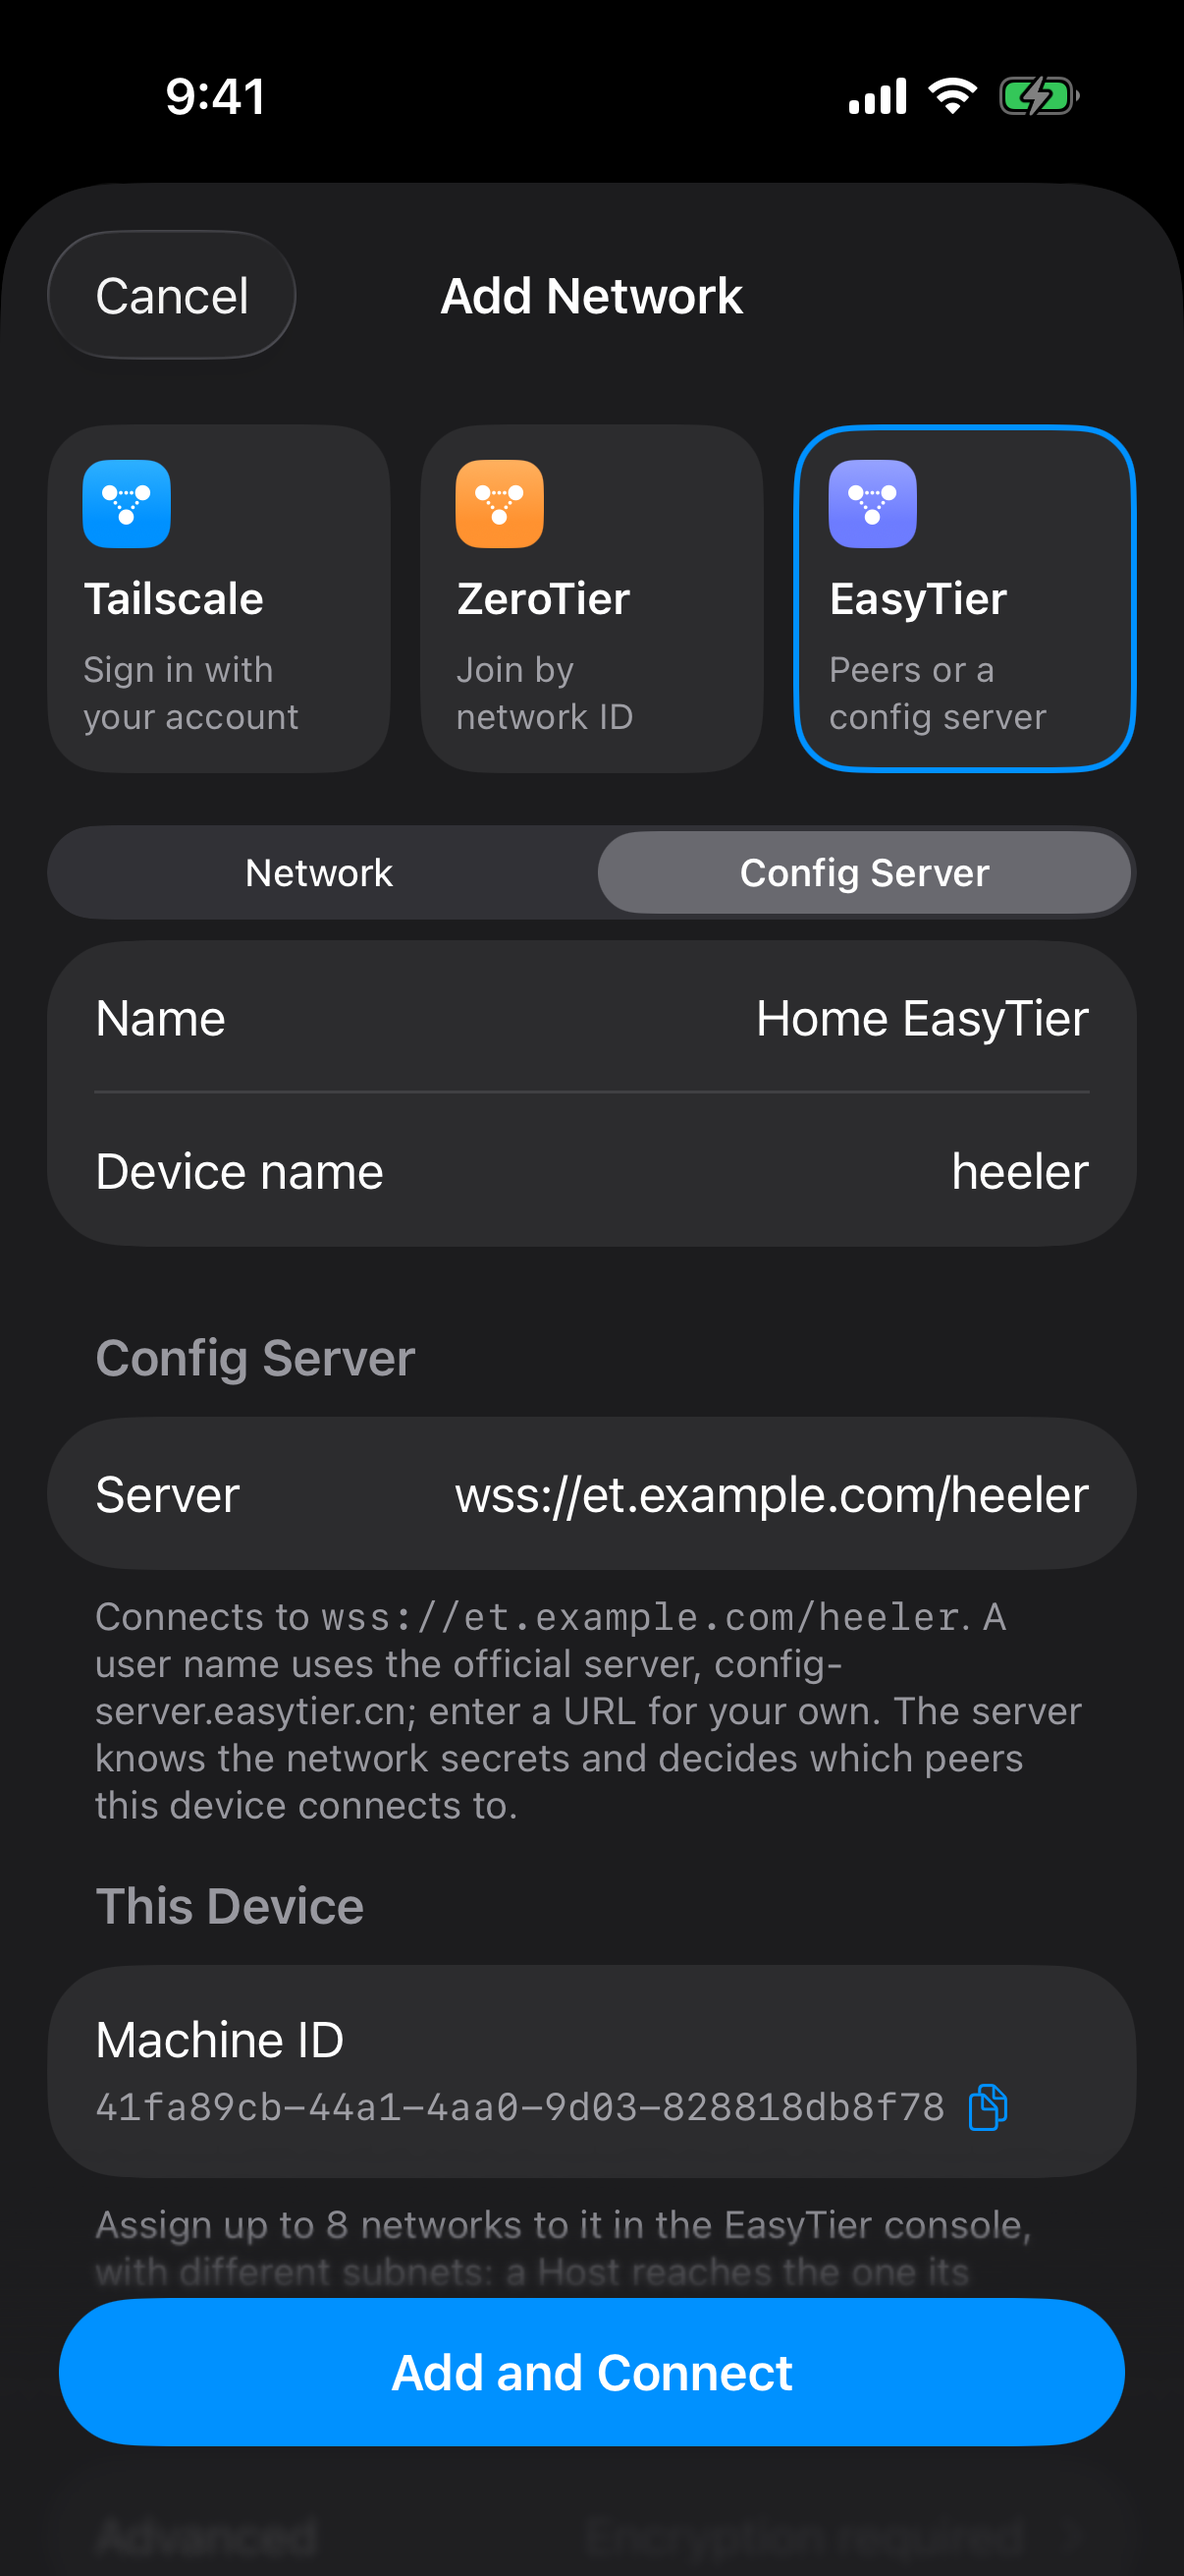
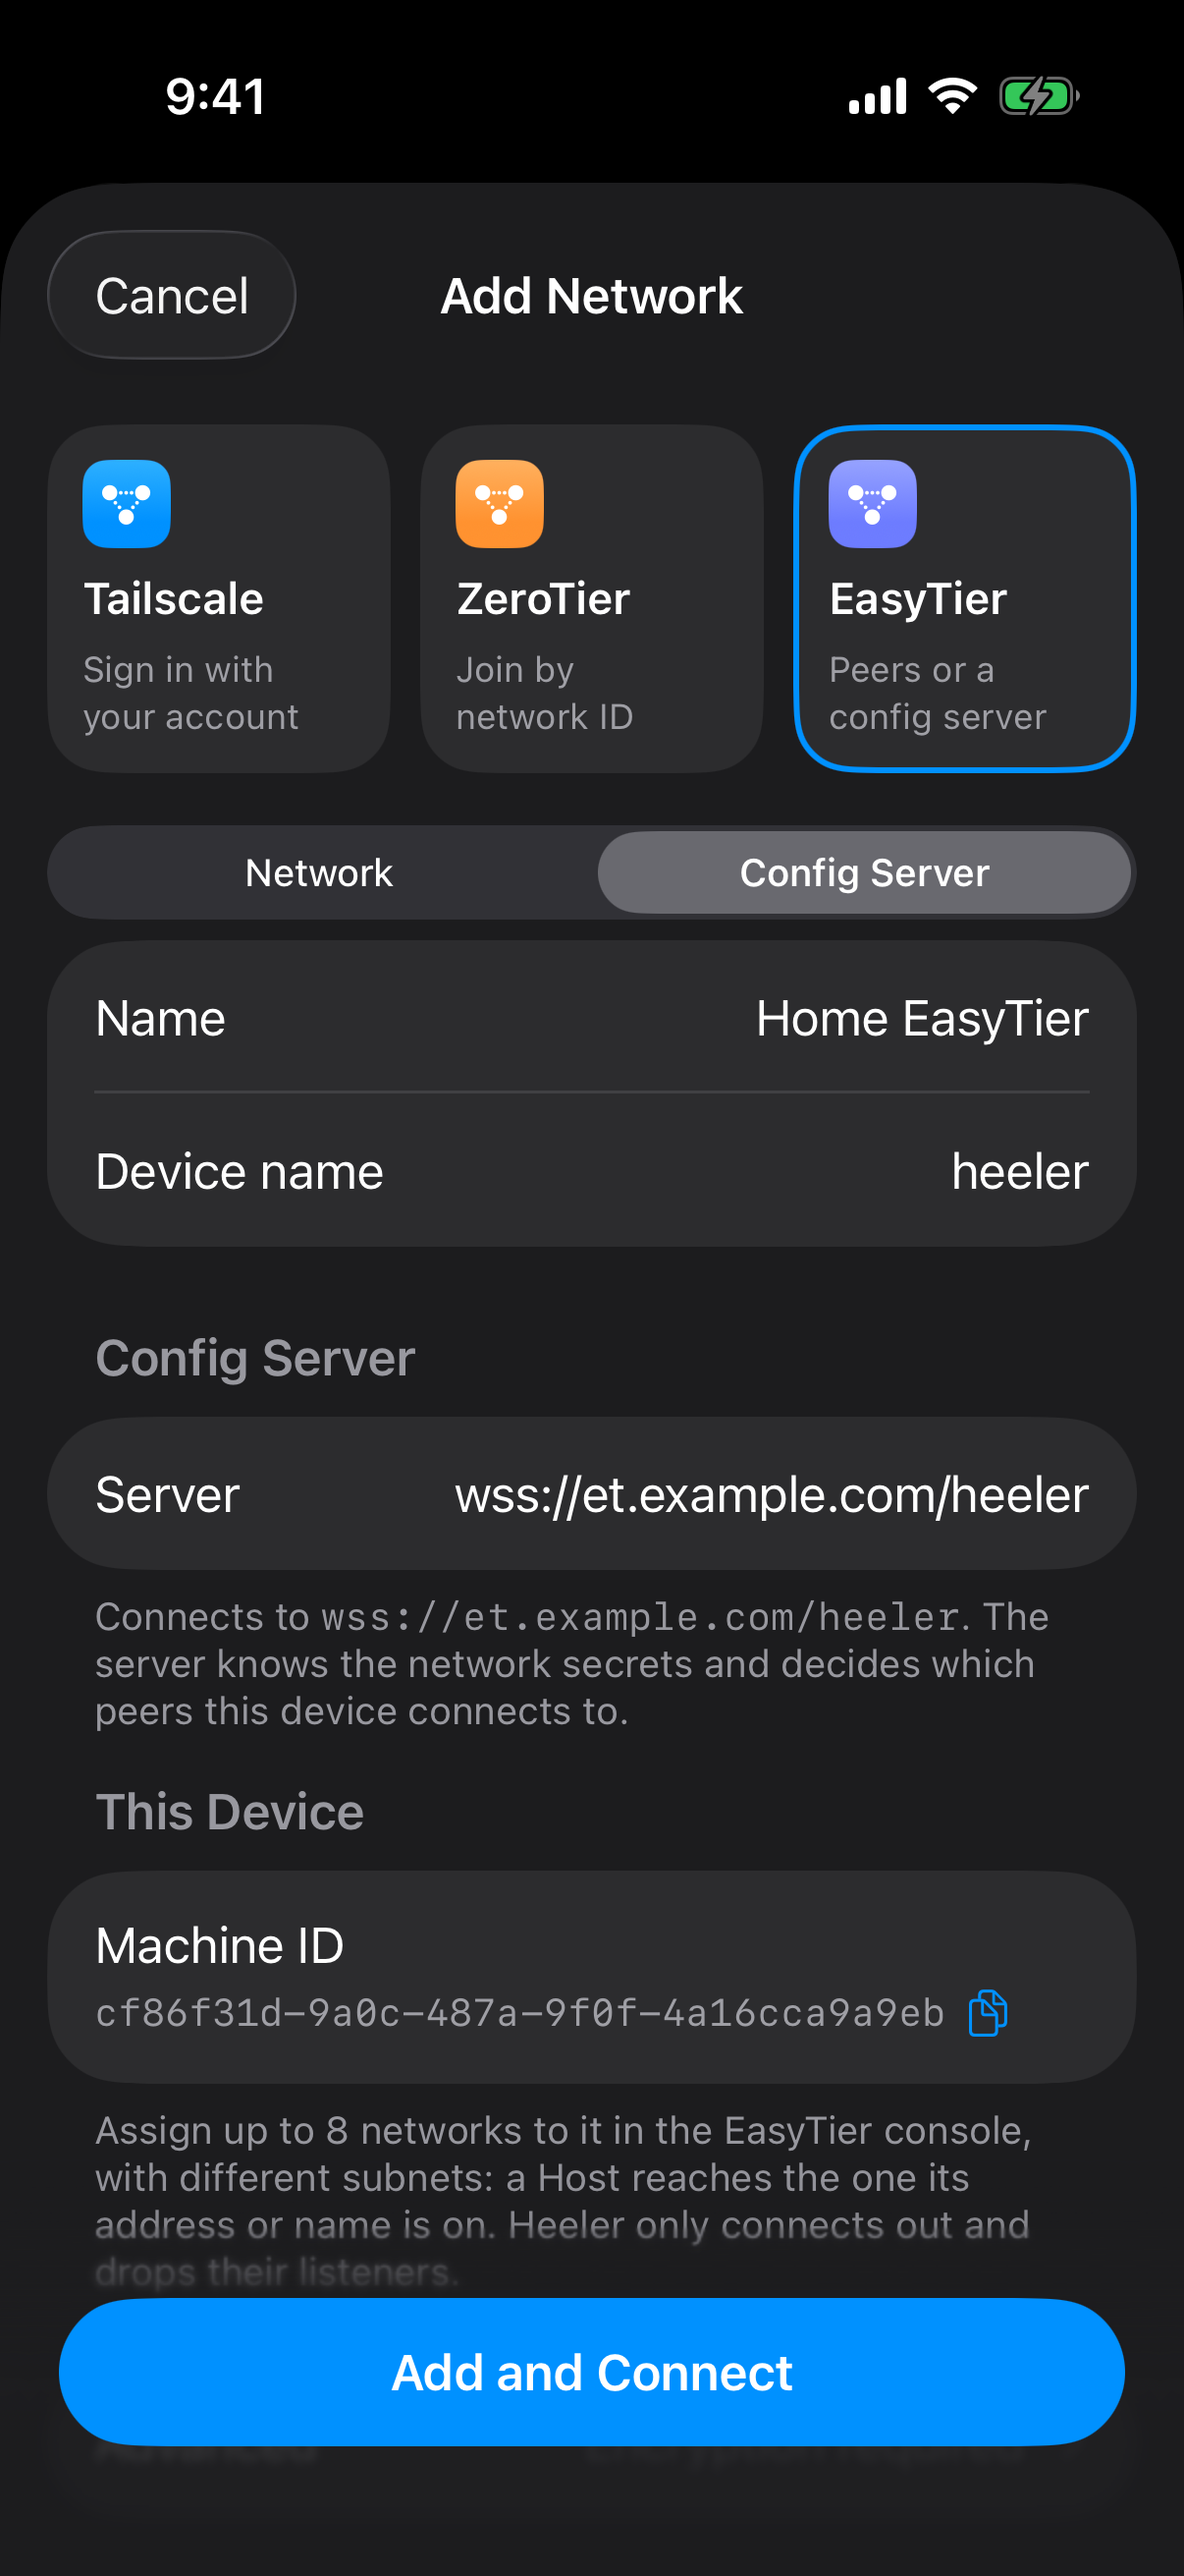
fix(overlay): ask for the config server's full url
EasyTier no longer runs its own hosted service, so the form stops steering users to config-server.easytier.cn. A bare user name still expands to it.

refs #426

Changed region(s): [[0.0614, 0.6178, 0.8897, 0.8959]]

diff --git a/Sources/Heeler/Settings/OverlayNetworkFormView.swift b/Sources/Heeler/Settings/OverlayNetworkFormView.swift
@@ -254,7 +254,7 @@ struct OverlayNetworkFormView: View {
     @ViewBuilder
     private var easyTierConfigServerSections: some View {
         Section {
-            OverlayFormField(title: "Server", prompt: "User name or server URL", text: $draft.configServer)
+            OverlayFormField(title: "Server", prompt: "Server URL", text: $draft.configServer)
                 .keyboardType(.URL)
         } header: {
             Text("Config Server")
@@ -262,15 +262,15 @@ struct OverlayNetworkFormView: View {
             VStack(alignment: .leading, spacing: 6) {
                 if let url = draft.configServerURL {
                     Text(
-                        "Connects to \(Text(url).monospaced()). \(EasyTierConfigServerCopy.serverNote)")
+                        "Connects to \(Text(url).monospaced()). \(EasyTierConfigServerCopy.trustNote)")
                     if let warning = EasyTierConfigServerCopy.transportWarning(for: url) {
                         Label(warning, systemImage: "exclamationmark.triangle")
                             .foregroundStyle(OverlayStatusTone.attention.textColor)
                     }
                 } else if !draft.configServer.trimmingCharacters(in: .whitespaces).isEmpty {
                     Text(
-                        "Enter a user name, or a udp://, tcp://, ws://, or wss:// server URL "
-                            + "ending in your user name, such as udp://host:22020/user.")
+                        "Enter a udp://, tcp://, ws://, or wss:// URL ending in your user "
+                            + "name, such as wss://host/user.")
                         .foregroundStyle(.red)
                 } else {
                     Text(EasyTierConfigServerCopy.serverNote)
@@ -422,9 +422,10 @@ struct OverlayNetworkFormView: View {
 
 enum EasyTierConfigServerCopy {
     static let serverNote =
-        "A user name uses the official server, config-server.easytier.cn; enter a URL for your "
-        + "own. The server knows the network secrets and decides which peers this device "
-        + "connects to."
+        "The full URL from the server's operator, ending in your user name. \(trustNote)"
+
+    static let trustNote =
+        "The server knows the network secrets and decides which peers this device connects to."
 
     static let machineIDNote =
         "Assign up to 8 networks to it in the EasyTier console, with different subnets: a Host "
